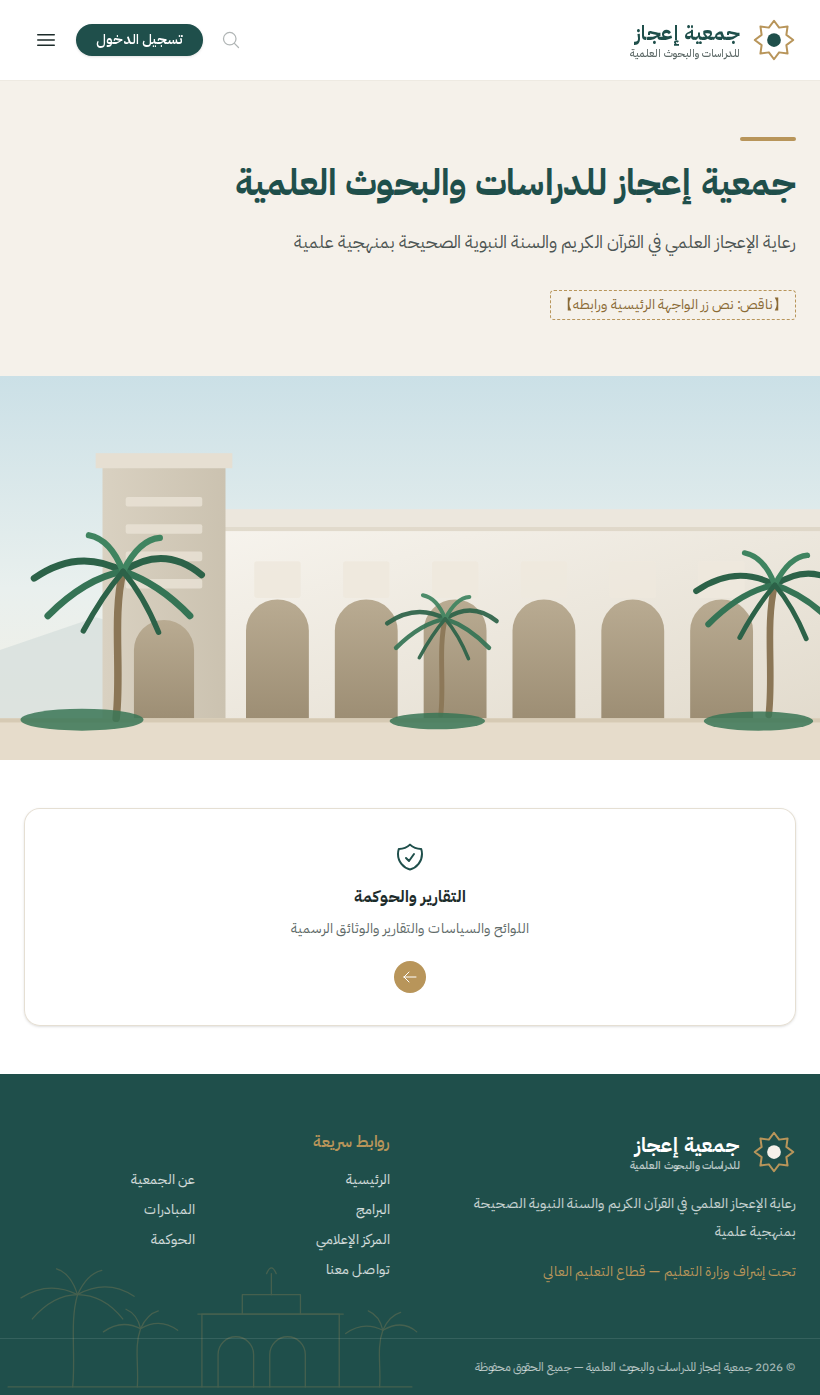
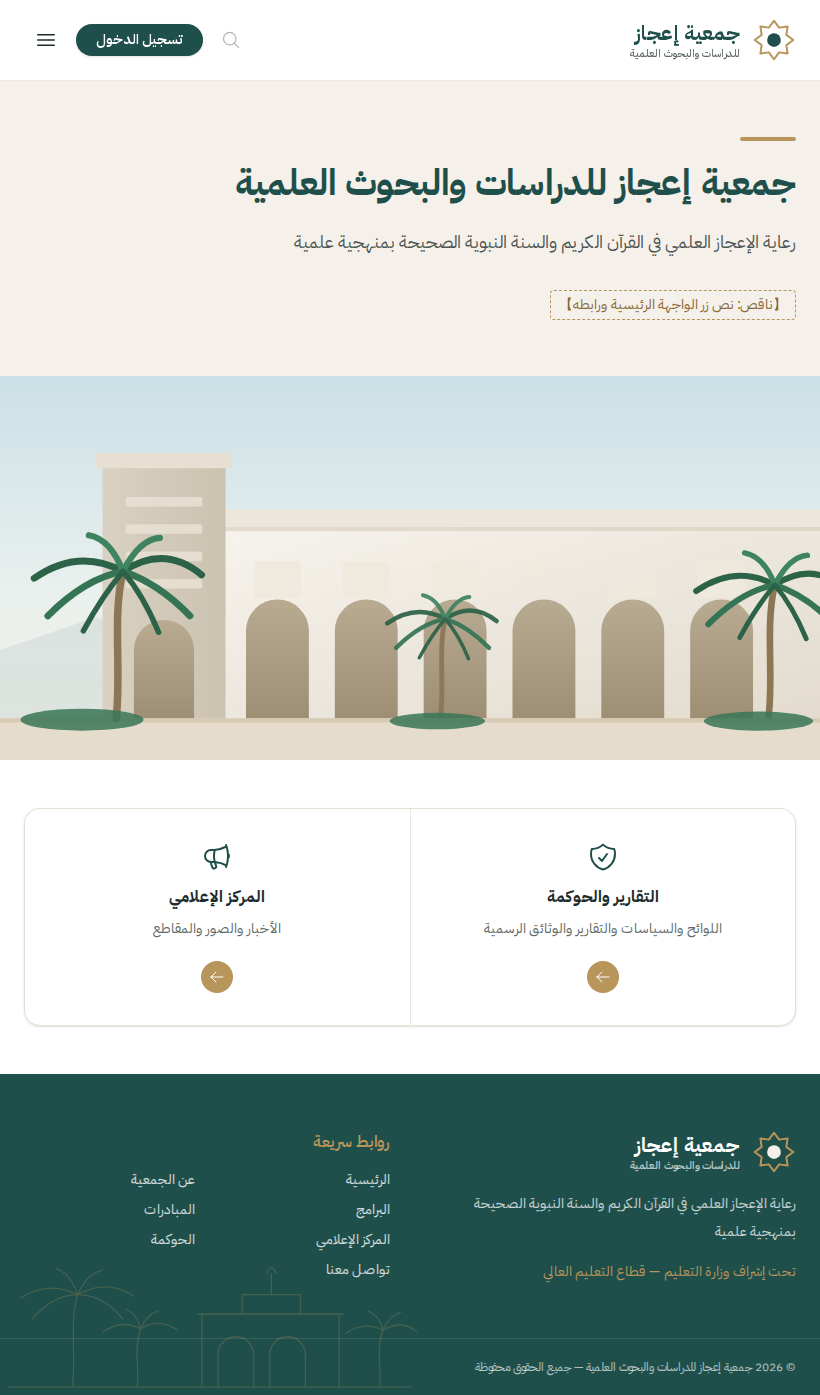
docs: media center screenshots, with demo sets labelled as demo content
The real pages are empty until news, albums and partners are published;
the home page now shows the media center shortcut. The demo sets used
clearly labelled demo rows and plain gradient pictures, removed
afterwards.

Changed region(s): [[0.3963, 0.5857, 0.8841, 0.709], [0.1829, 0.6165, 0.3354, 0.709]]

diff --git a/tests/browser/README.md b/tests/browser/README.md
@@ -33,6 +33,7 @@ docker compose run --rm \
    - وأضف مؤقتاً مسارات الأقسام التي تظهر بها البطاقات، مثل `governance.index`.
 2. شغّل اللقطات، ثم أعد تسمية ملفات الشاشة إلى `-demo-`.
    - صفحتا عنصر المكتبة (`library-item` و`library-video`) لا تُلتقطان إلا من المجموعة التجريبية، بعنصرين معرّفاهما `demo-book` و`demo-video`.
+   - وكذلك صفحتا الخبر والألبوم (`news-article` و`album`)، بمعرّفي `demo-news` و`demo-album`.
 3. **احذف القيم والمسارات المؤقتة:**
    - احذف القيم من اللوحة نفسها، فتُمسح ذاكرتها.
    - وإن عُدّلت القاعدة مباشرة، فامسح الذاكرة كلها بـ `php artisan cache:clear` (في البيئة المحلية وحدها)، لأن `ejaz:refresh-content` لا يمس ذاكرة الإعدادات.
